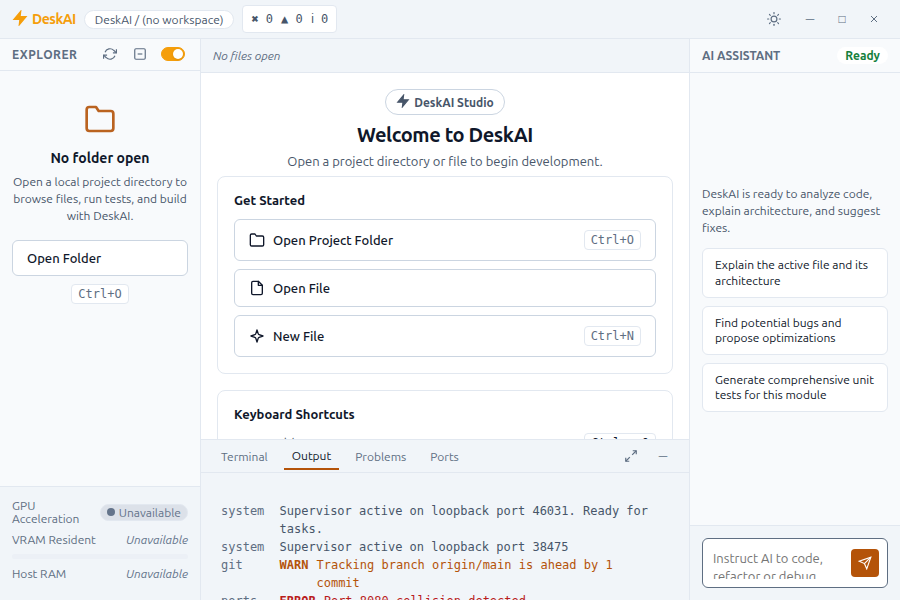
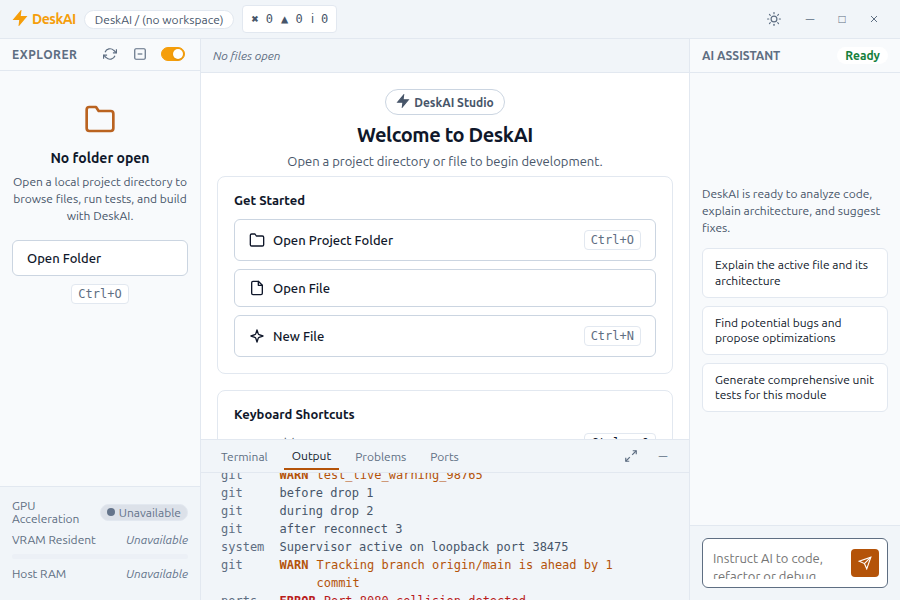
feat(output): instrument natural bridge logging for terminal, git, diagnostics, and ports

Changed region(s): [[0.2489, 0.78, 0.7156, 0.9]]

diff --git a/src/deskai/bridge/diagnostics.py b/src/deskai/bridge/diagnostics.py
@@ -54,7 +54,17 @@ class DiagnosticsBridge(BaseBridgeModule):
             canonical_p = canonicalize_path(target_path)
             res = run_checks(canonical_p, self.workspace_root, request_id=request_id)
             if res.get("status") == "ok":
-                self._diag_cache.put(canonical_p, res.get("diagnostics", []))
+                diags = res.get("diagnostics", [])
+                self._diag_cache.put(canonical_p, diags)
+                err_cnt = sum(1 for d in diags if d.get("severity") == "error")
+                warn_cnt = sum(1 for d in diags if d.get("severity") == "warning")
+                fname = os.path.basename(target_path)
+                if err_cnt > 0:
+                    logger.error("Diagnostics [%s]: %d syntax error(s) found", fname, err_cnt)
+                elif warn_cnt > 0:
+                    logger.warning("Diagnostics [%s]: %d warning(s) found", fname, warn_cnt)
+                else:
+                    logger.info("Diagnostics [%s]: Clean, 0 errors/warnings", fname)
             return res
         except Exception:
             logger.exception("diagnostics failed for %s", target_path)

diff --git a/src/deskai/bridge/terminal.py b/src/deskai/bridge/terminal.py
@@ -68,8 +68,11 @@ class TerminalBridge(BaseBridgeModule):
 
         try:
             session = tm.create_session(self.workspace_root, cols=cols, rows=rows)
+            ws_name = os.path.basename(self.workspace_root) or self.workspace_root
+            logger.info("Terminal session spawned for %s (session %s)", ws_name, session.session_id[:8])
             return {"status": "ok", "session_id": session.session_id}
         except Exception as e:
+            logger.error("Terminal session spawn failed: %s", e)
             return {"status": "error", "message": str(e)}
 
     def terminal_close(self, session_id: str) -> bool:
@@ -82,4 +85,5 @@ class TerminalBridge(BaseBridgeModule):
         tm = getattr(server, "terminal_manager", None)
         if not tm:
             return False
+        logger.info("Terminal session closed (%s)", session_id[:8])
         return tm.close_session(session_id)

diff --git a/src/deskai/bridge/git.py b/src/deskai/bridge/git.py
@@ -74,10 +74,13 @@ class GitBridge(BaseBridgeModule):
                 head_content = head_file.read_text(encoding="utf-8").strip()
                 if head_content.startswith("ref: refs/heads/"):
                     branch = head_content.replace("ref: refs/heads/", "").strip()
+                    logger.info("Git active branch: %s", branch)
                     return {"status": "ok", "branch": branch}
                 elif head_content:
                     # Detached HEAD (SHA-1 prefix)
-                    return {"status": "ok", "branch": head_content[:7]}
+                    short_sha = head_content[:7]
+                    logger.info("Git detached HEAD: %s", short_sha)
+                    return {"status": "ok", "branch": short_sha}
         except Exception as e:
             logger.debug("Failed to read git branch: %s", e)
         return {"status": "ok", "branch": None}

diff --git a/src/deskai/bridge/ports.py b/src/deskai/bridge/ports.py
@@ -88,6 +88,7 @@ class PortsBridge(BaseBridgeModule):
         supervisor_port = getattr(getattr(self._manager, "server", None), "port", None)
         if supervisor_port and port == supervisor_port:
             return False
+        logger.info("Opening local service in browser: http://%s:%s", host, port)
         return bool(webbrowser.open(f"http://{host}:{port}"))
 
     def probe_port(self, port: int, host: str = "127.0.0.1") -> bool:
@@ -190,4 +191,5 @@ class PortsBridge(BaseBridgeModule):
             }
 
         ports = sorted(rows.values(), key=lambda r: (r["port"], r["host"]))
+        logger.debug("Ports scanned: %d active listener(s) found", len(ports))
         return {"status": "ok", "ports": ports, "warnings": warnings}
